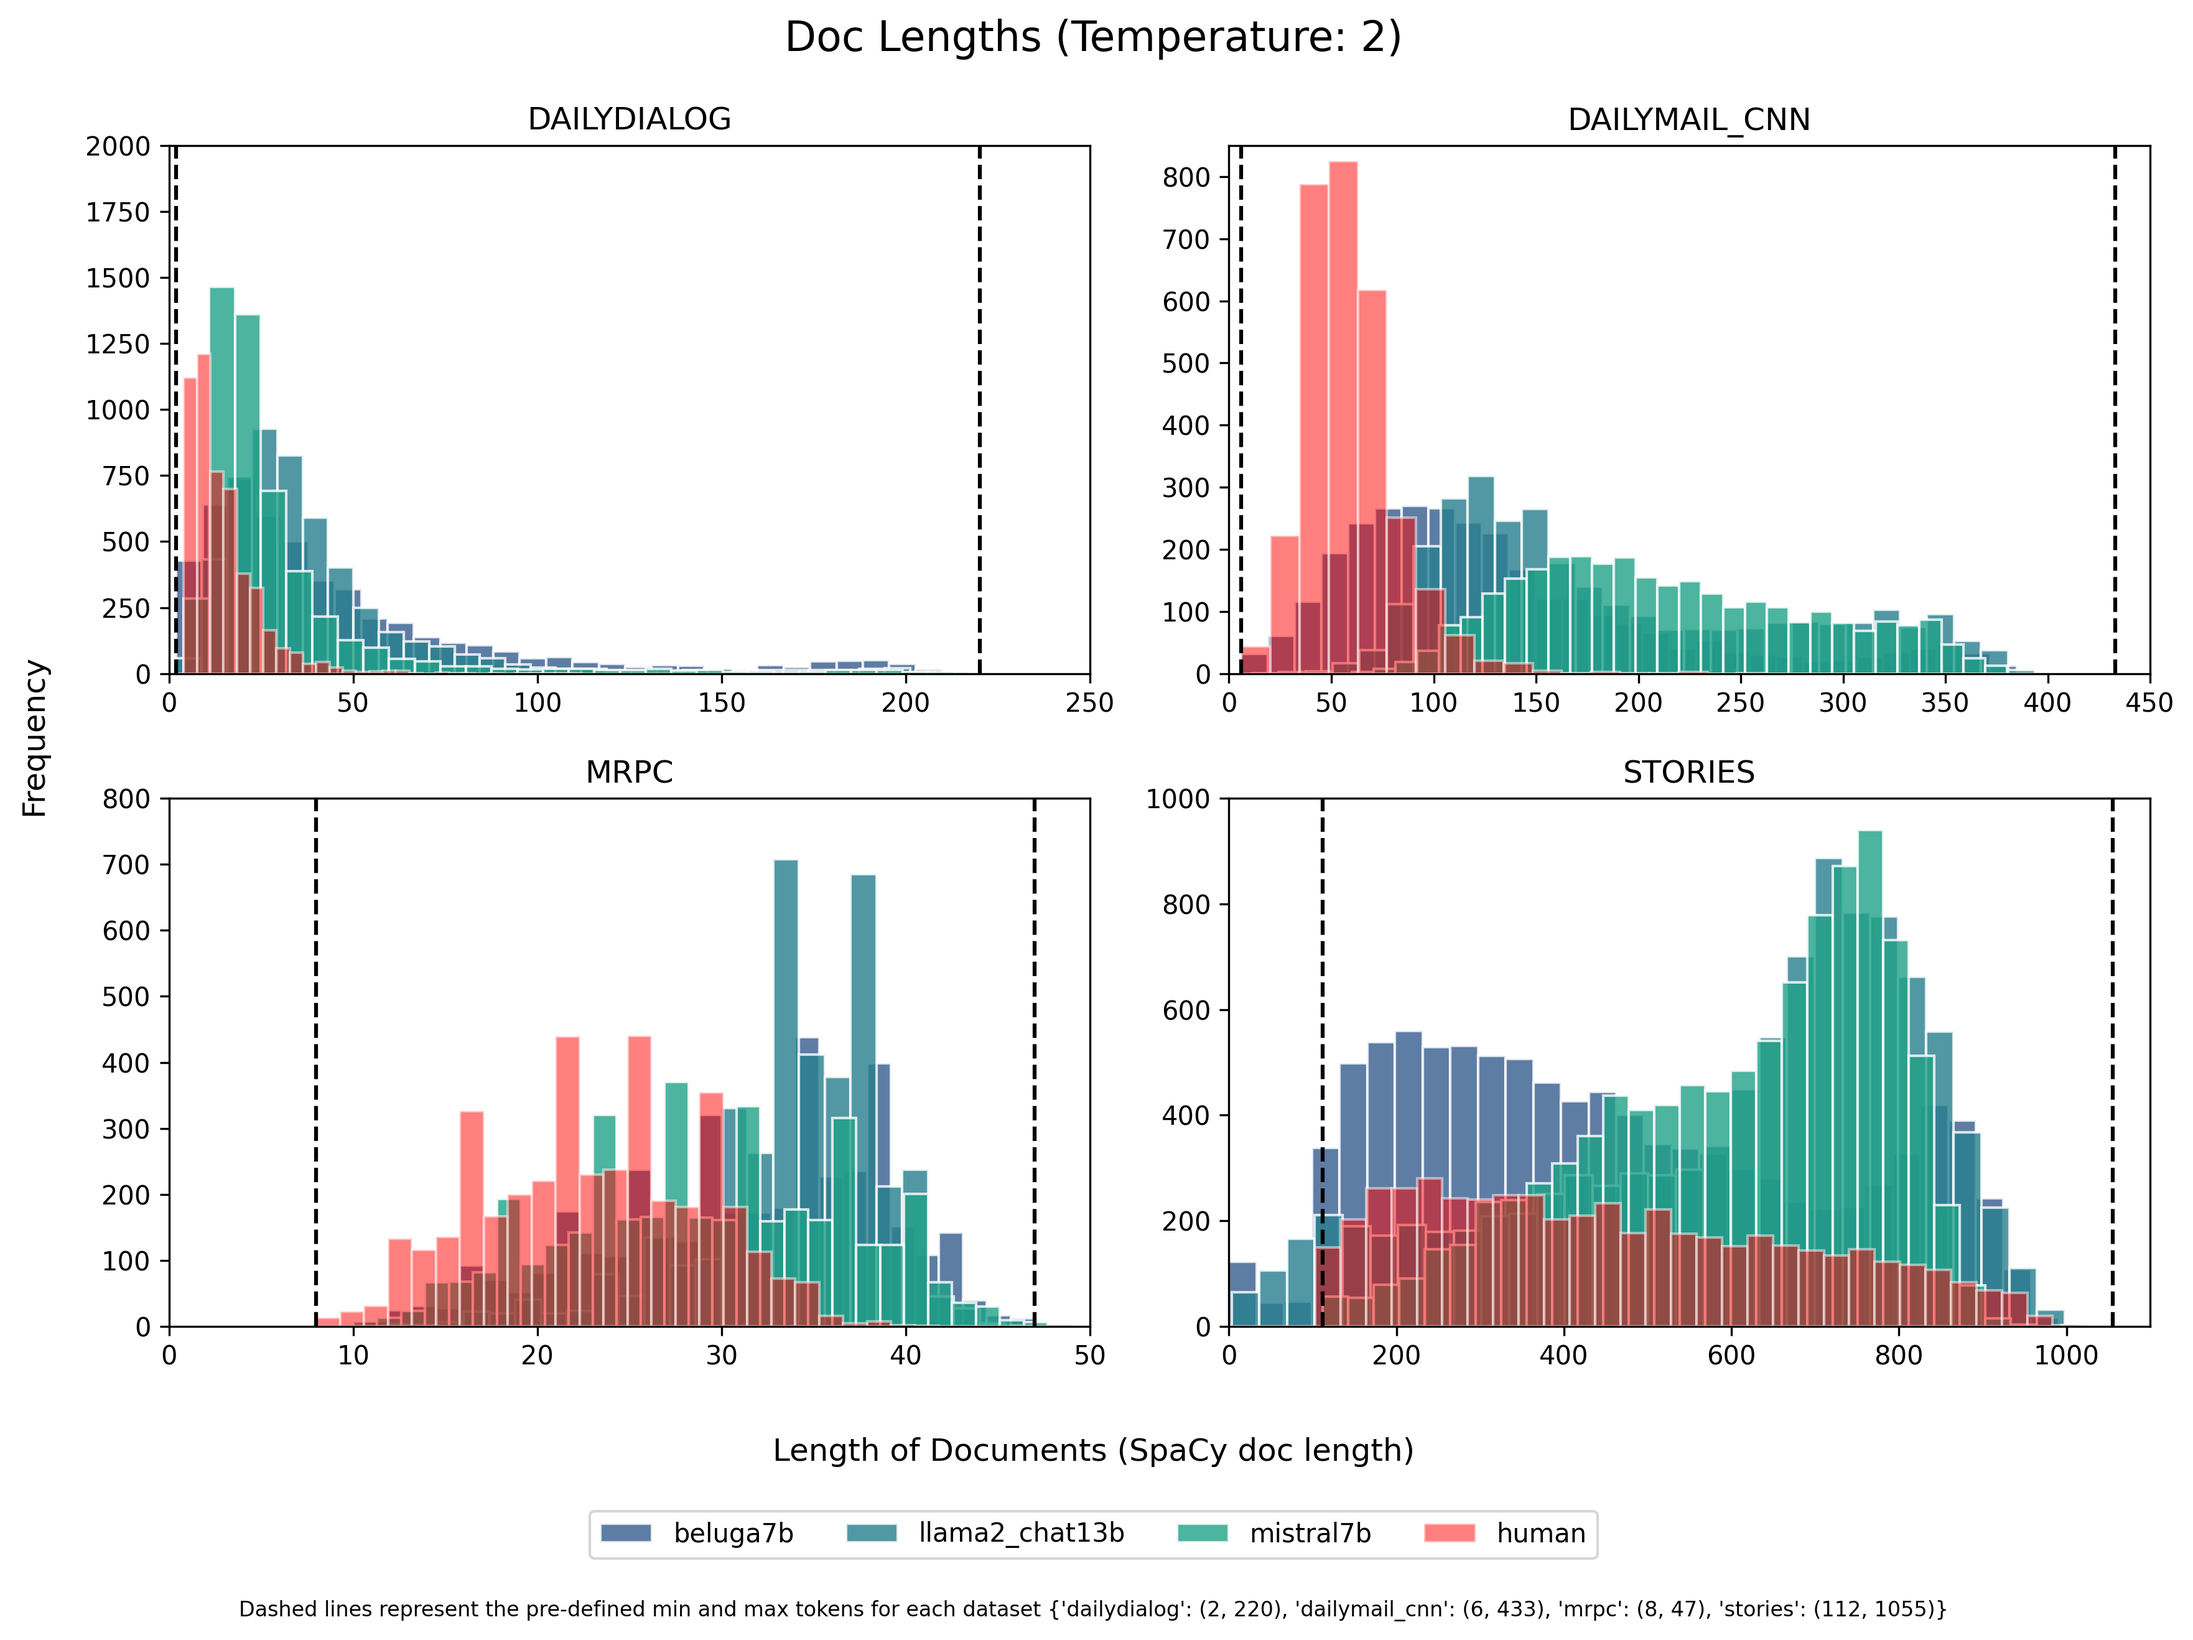
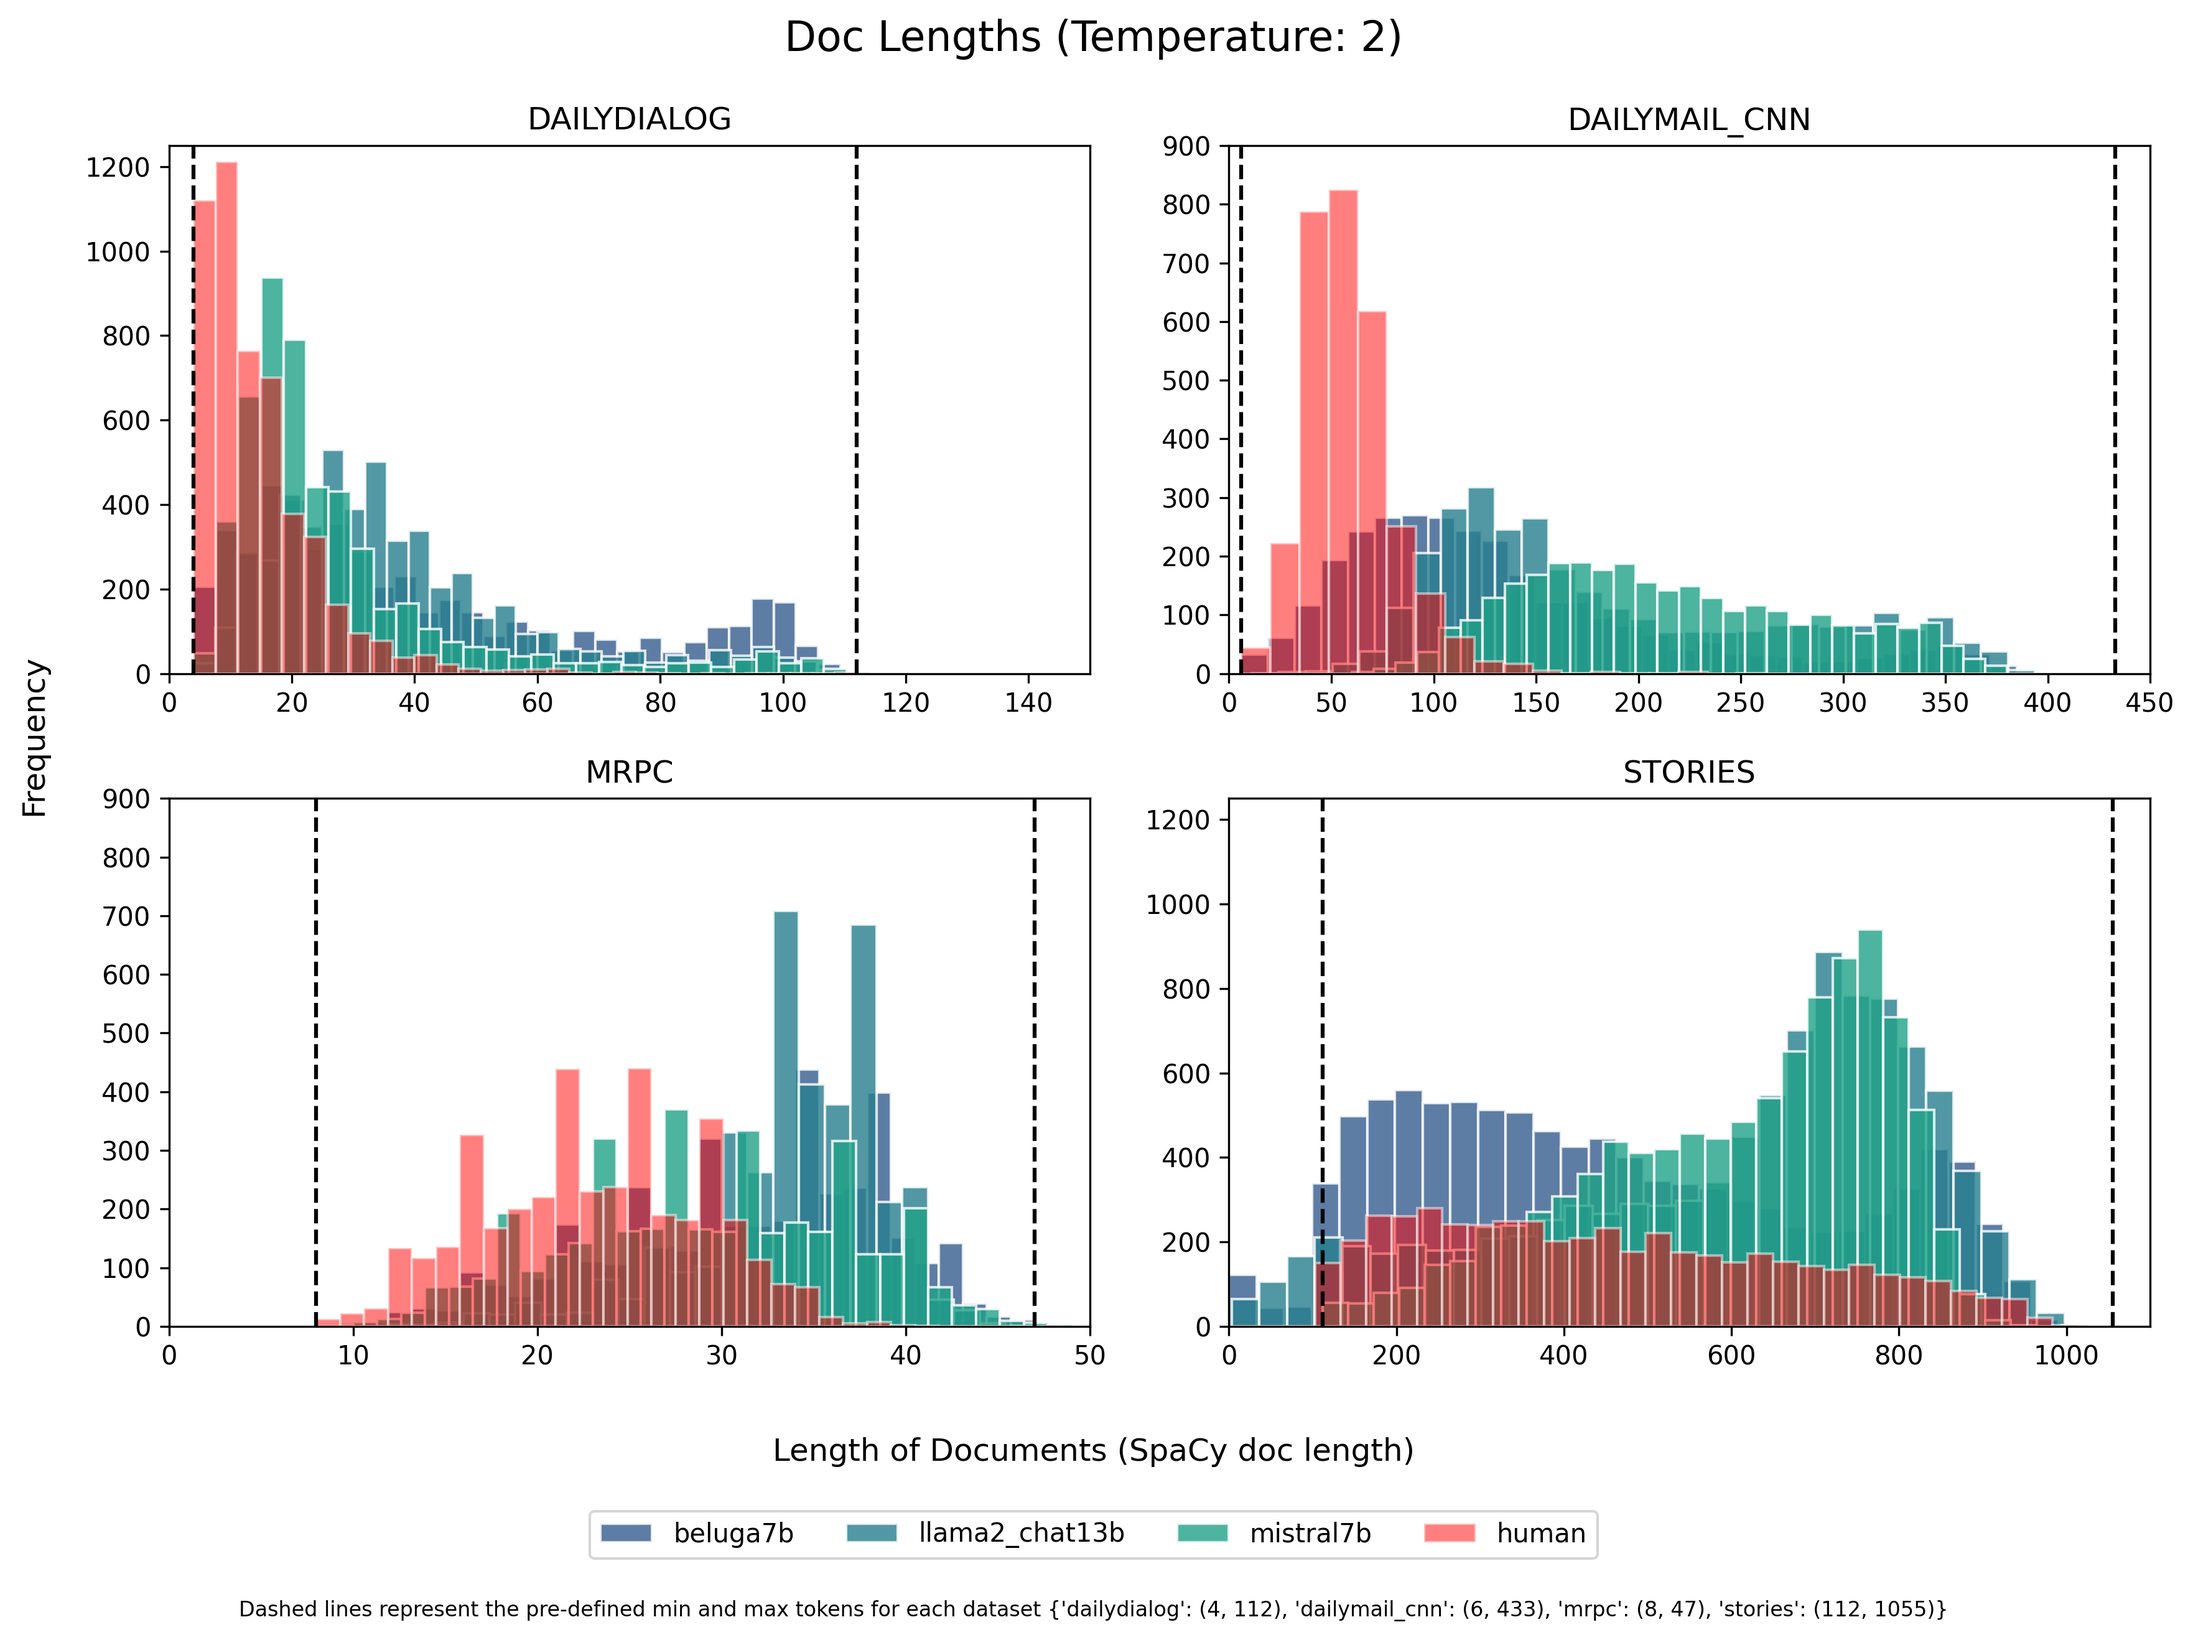
feat: upload new plots w. new dailydialogs data, update their axis

diff --git a/src/analysis/inspect_lengths.py b/src/analysis/inspect_lengths.py
@@ -22,8 +22,8 @@ def plot_distribution_per_dataset(df, min_max_tokens_dict=None, col="doc_length"
     colormap = sns.color_palette("viridis").as_hex()
 
     # custom xlims, ylims for each dataset
-    custom_x_lims = {"stories": (0, 1100), "mrpc": (0, 50), "dailydialog": (0, 250), "dailymail_cnn": (0, 450)}
-    custom_y_lims = {"stories": (0, 1000), "mrpc": (0, 800), "dailydialog": (0, 2000), "dailymail_cnn": (0, 850)}
+    custom_x_lims = {"stories": (0, 1100), "mrpc": (0, 50), "dailydialog": (0, 150), "dailymail_cnn": (0, 450)}
+    custom_y_lims = {"stories": (0, 1250), "mrpc": (0, 900), "dailydialog": (0, 1250), "dailymail_cnn": (0, 900)}
 
     for i, dataset in enumerate(unique_datasets):
         # filter dataframe for current dataset
